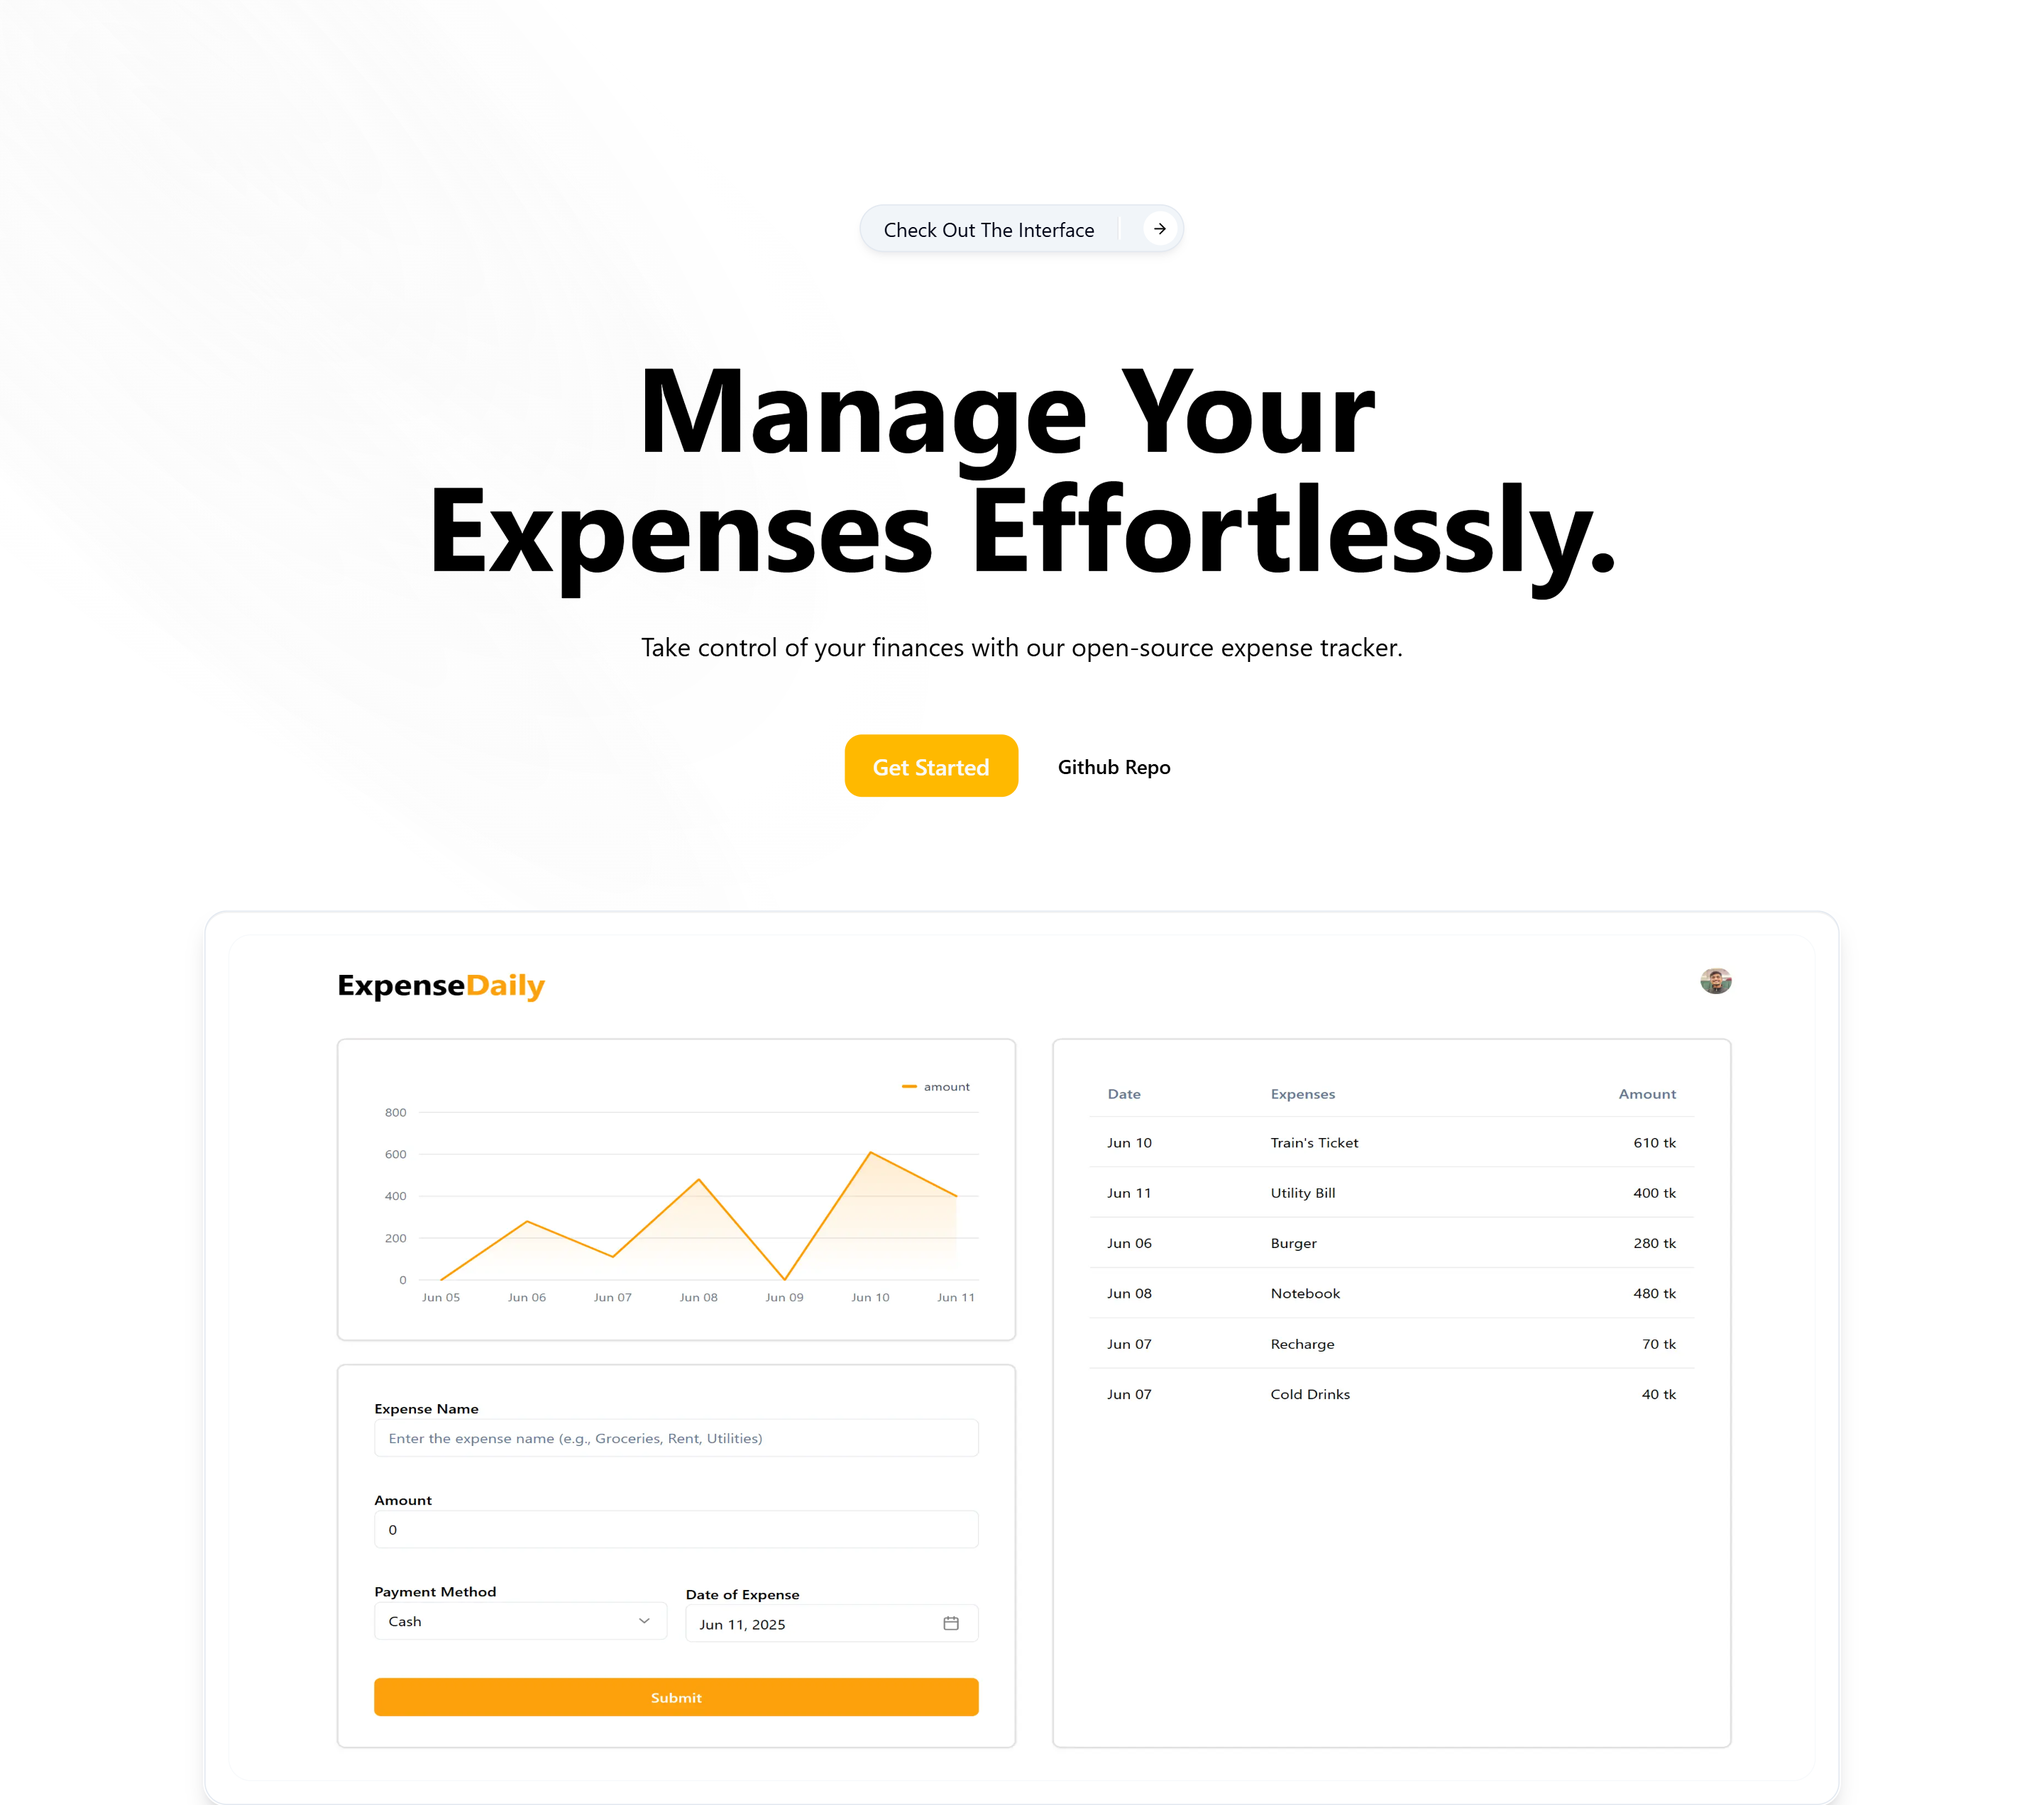
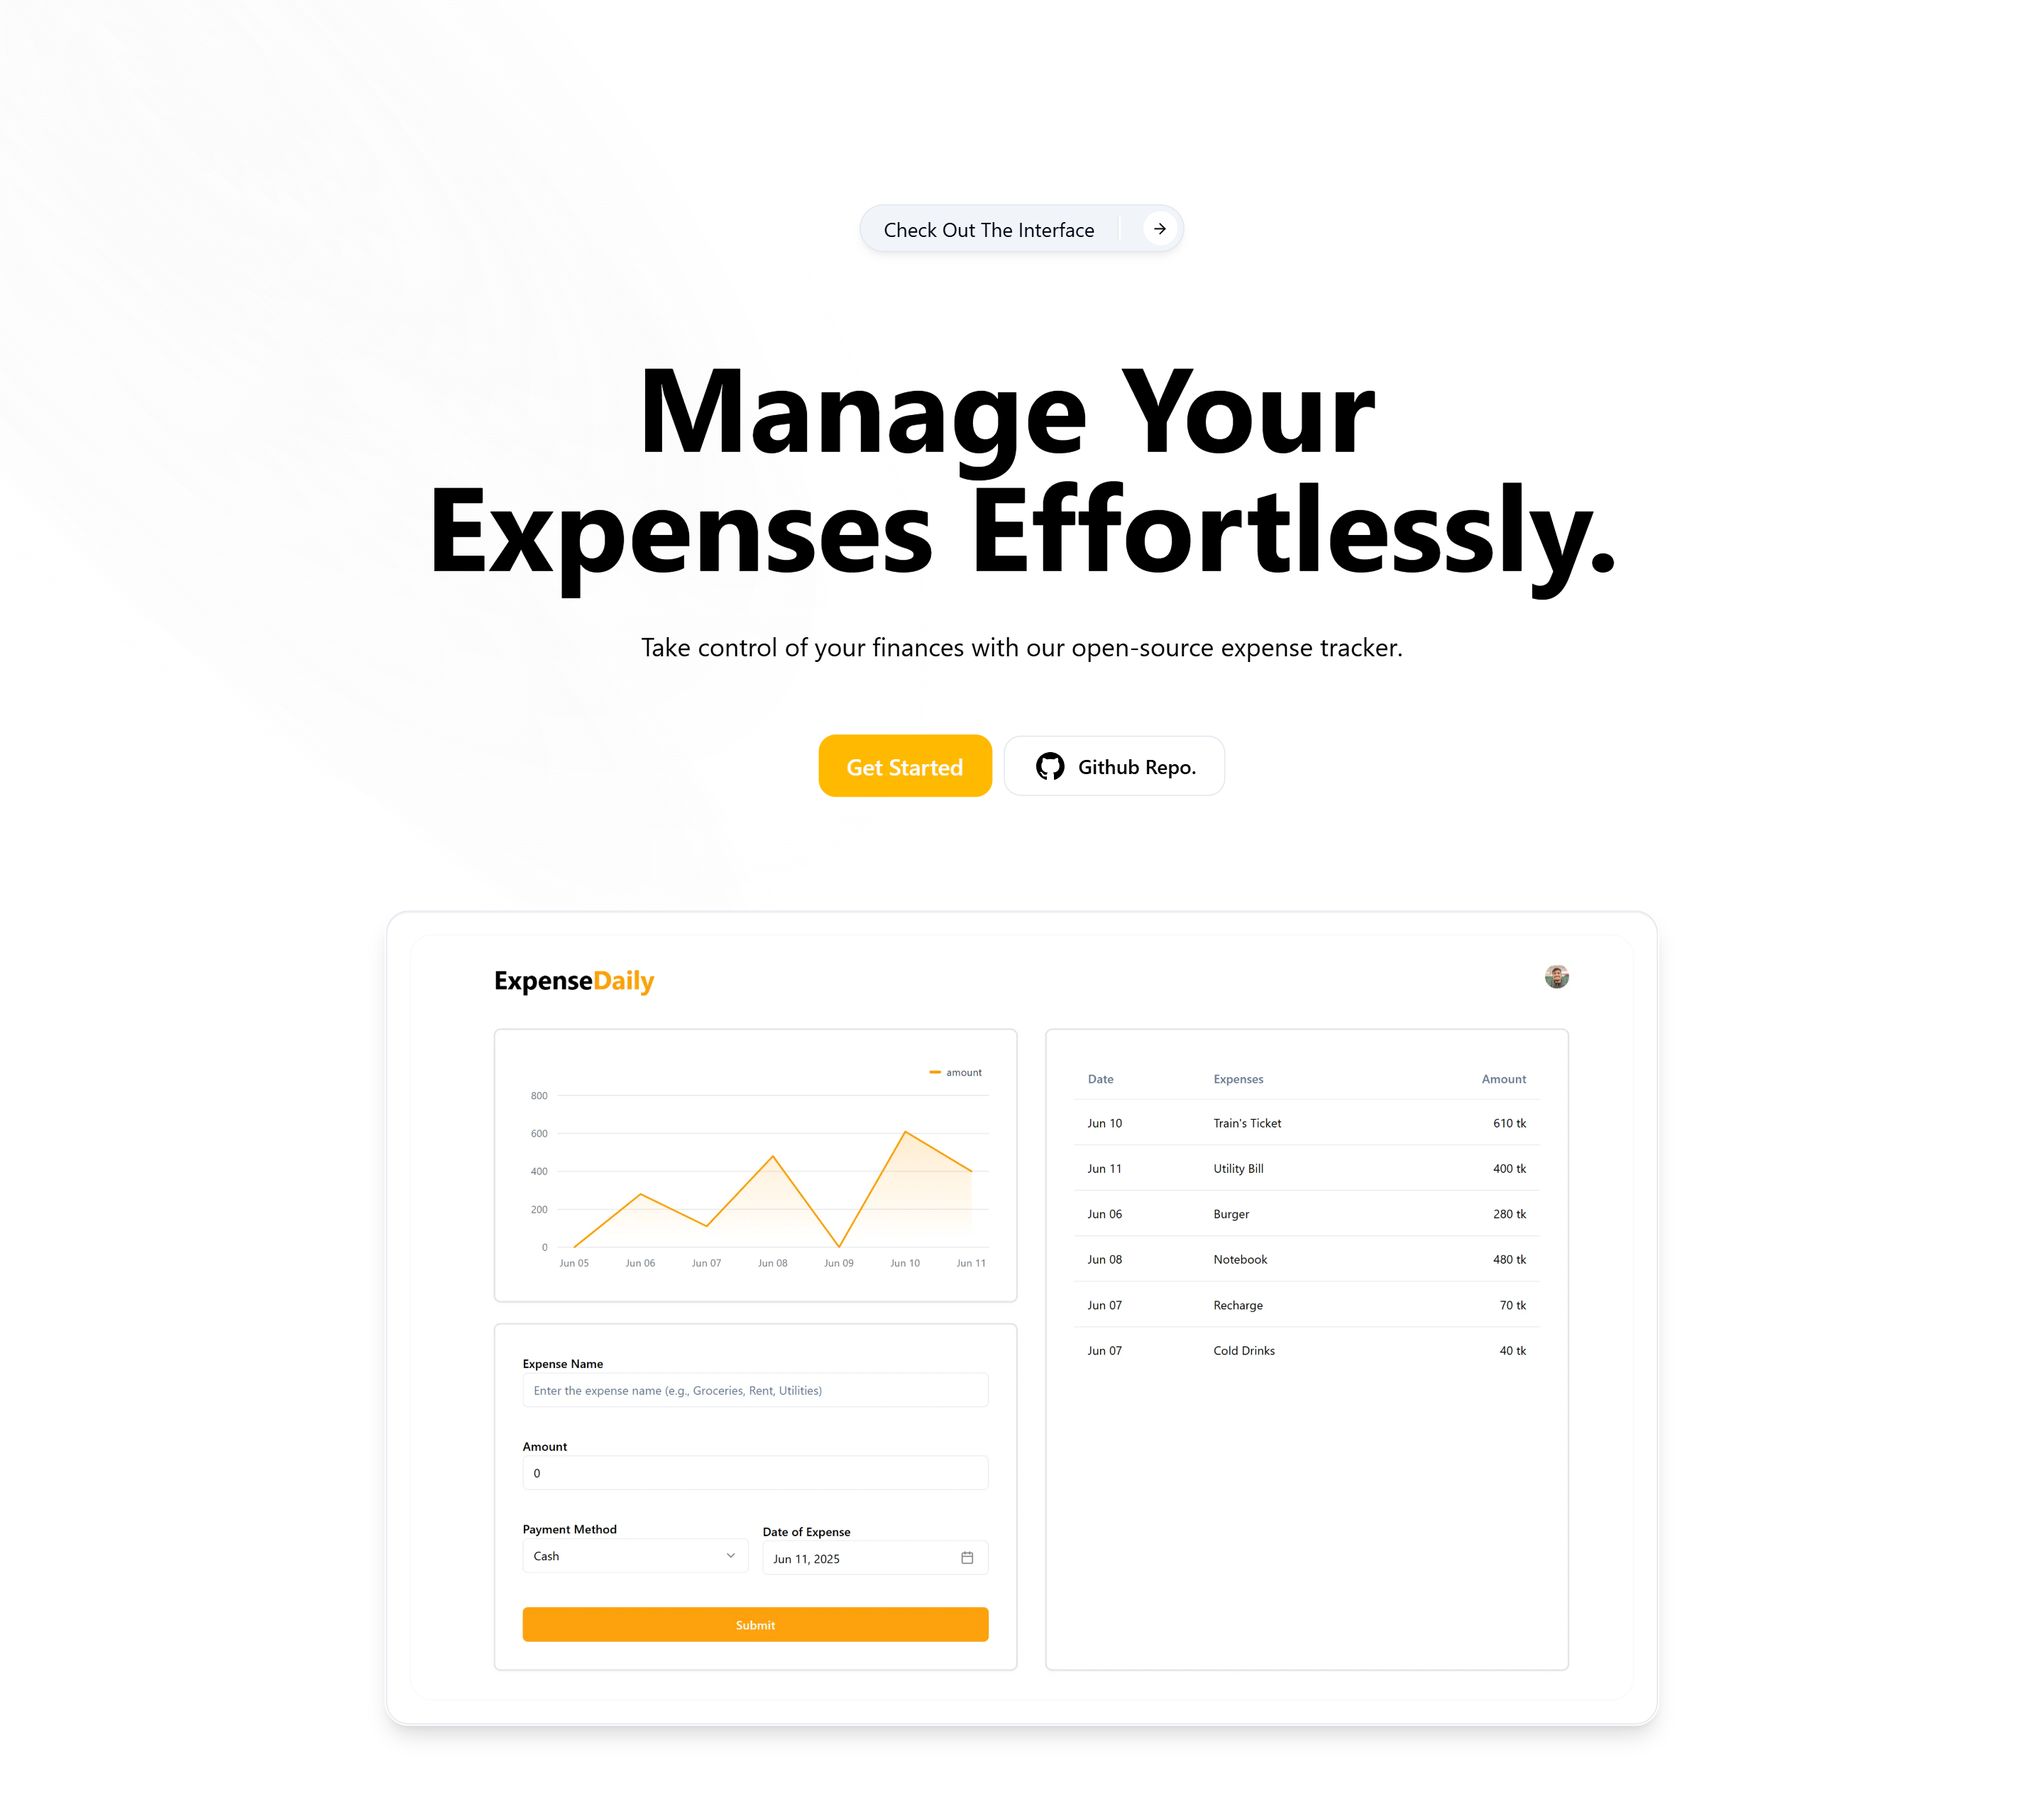
Fix hero's button layout issue

diff --git a/components/hero-section.tsx b/components/hero-section.tsx
@@ -1,6 +1,7 @@
 import { AnimatedGroup } from "@/components/ui/animated-group";
 import { Button } from "@/components/ui/button";
 import { TextEffect } from "@/components/ui/text-effect";
+import { RiGithubFill } from "@remixicon/react";
 import { ArrowRight } from "lucide-react";
 import Image from "next/image";
 import Link from "next/link";
@@ -114,11 +115,12 @@ export default function HeroSection() {
                     key={2}
                     asChild
                     size="lg"
-                    variant="ghost"
+                    variant="outline"
                     className="h-10.5 rounded-xl px-5"
                   >
-                    <Link href="https://github.com/jsmikat/ExpenseDaily">
-                      <span className="text-nowrap">Github Repo</span>
+                    <Link className="flex gap-2" href="https://github.com/jsmikat/ExpenseDaily">
+                      <RiGithubFill />
+                      <span className="text-nowrap">Github Repo.</span>
                     </Link>
                   </Button>
                 </AnimatedGroup>
@@ -126,6 +128,7 @@ export default function HeroSection() {
             </div>
 
             <AnimatedGroup
+              className="mb-8"
               variants={{
                 container: {
                   visible: {
@@ -138,17 +141,17 @@ export default function HeroSection() {
                 ...transitionVariants,
               }}
             >
-              <div className="relative -mr-56 mt-8 overflow-hidden px-2 sm:mr-0 sm:mt-12 md:mt-20">
+              <div className="relative -mr-56 my-8 overflow-hidden px-2 sm:mr-0 sm:mt-12 md:mt-20">
                 <div
                   aria-hidden
                   className="bg-linear-to-b to-background absolute inset-0 z-10 from-transparent from-35%"
                 />
                 <div
                   id="hero-image"
-                  className="inset-shadow-2xs ring-white bg-white relative mx-auto max-w-6xl overflow-hidden rounded-2xl border border-slate-200 p-4 shadow-lg shadow-zinc-950/15 ring-1"
+                  className="inset-shadow-2xs mb-8 ring-white bg-white relative mx-auto max-w-4xl overflow-hidden rounded-2xl border border-slate-200 p-4 shadow-lg shadow-zinc-950/15 ring-1"
                 >
                   <Image
-                    className="z-2 border-slate-200/25 aspect-15/8 relative rounded-2xl border"
+                    className="z-2 border-slate-200/25 relative rounded-2xl border"
                     src="/ExpenseDaily.png"
                     alt="app screen"
                     width="2880"

diff --git a/components/AreaChart.tsx b/components/AreaChart.tsx
@@ -1,6 +1,3 @@
-// Tremor AreaChart [v1.0.0]
-/* eslint-disable @typescript-eslint/no-explicit-any */
-
 "use client";
 
 import { RiArrowLeftSLine, RiArrowRightSLine } from "@remixicon/react";
@@ -814,7 +811,10 @@ const AreaChart = React.forwardRef<HTMLDivElement, AreaChartProps>(
               />
             ) : null}
             {categories.map((category) => {
-              const categoryId = `${areaId}-${category.replace(/[^a-zA-Z0-9]/g, "")}`;
+              const categoryId = `${areaId}-${category.replace(
+                /[^a-zA-Z0-9]/g,
+                ""
+              )}`;
               return (
                 <React.Fragment key={category}>
                   <defs key={category}>
